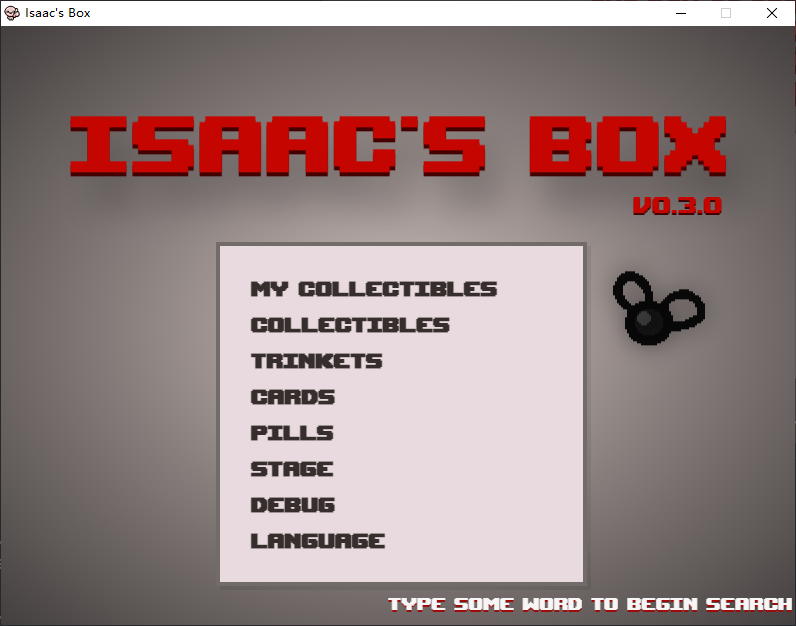
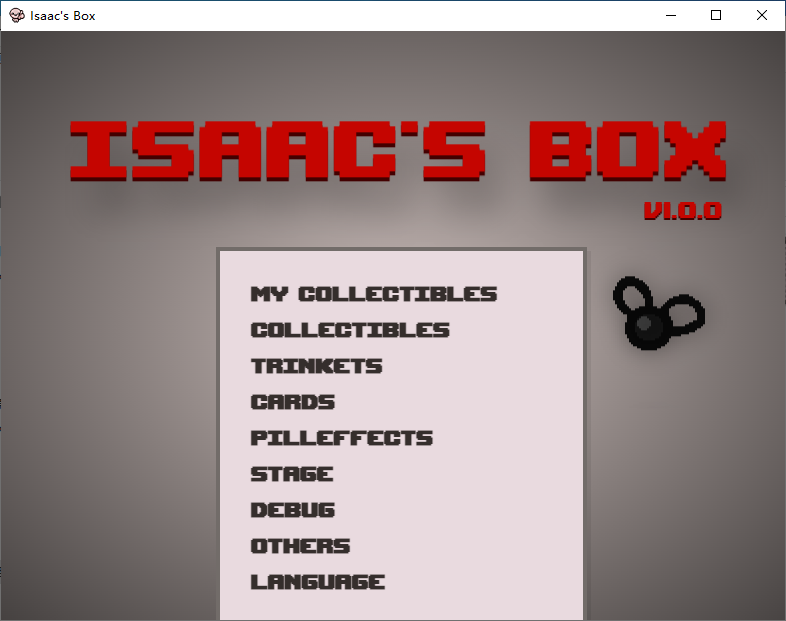
更新文档至1.0.0

diff --git a/README.md b/README.md
@@ -7,8 +7,19 @@
 2. 以前安装过相关Mod(IsaacBox与IsaacSocket)的请您手动删除这两个Mod。
 3. 解压缩文件夹，打开isaac-box.exe。
 4. 启动游戏,如果未安装所需Mod，则会自动安装，安装完毕后会要求您重新手动启动游戏。（仅会在第一次启动时安装）
-6. 新游戏/继续游戏后 看到屏幕顶部的IsaacBox + 版本 即可开始正常使用。
+6. 新游戏/继续游戏后 控制台输出IsaacBox即可正常使用。
 
+## 遇到问题
++ 请检查是否曾经安装过IsaacSocket，同一时间只能开启一个IsaacSocket MOD，请手动删除或者在MOD菜单中禁用
+
++ 检查是否被杀毒软件拦截或者限制访问了
++ 如果不能为您自动安装mod，请手动复制dependencies下的两个mod至游戏MOD文件夹。
++ 是否不能主动打开IsaacSocket.exe 可能需要安装.net环境
++ 如果不能为您自动启动IsaacSocket.exe，请在每次游戏前手动运行dependencies/IsaacSocketUtility下的IsaacSocket.exe
++ 参考https://github.com/LanbingIce/IsaacSocket-Mod 文档
++ 或者提issue
+
+## 功能图
 ![./doc/main.png](./doc/main.png "主画面")
 ![./doc/main.png](./doc/m_en.png "英文版主画面")
 ![./doc/c.png](./doc/c.png "道具")
@@ -32,18 +43,13 @@
 + 八国语言支持(简中,英,德,法,俄,日,韩,西班牙)
 
 
-## 遇到问题
-+ 参考https://github.com/LanbingIce/IsaacSocket-Mod 文档
-+ 请检查是否曾经安装过IsaacSocket，同一时间只能开启一个IsaacSocket MOD
-+ 或者提issue
-
 ## 项目使用(普通用户无需关注,开发者需关注)
 + 首先安装相关依赖(推荐npm) 命令为:npm install
 + npm run dev:网页开发调试 调试界面和基础功能用这个
 + npm run build:生成静态网页
 + npm run start:生成静态网页并运行electron 模拟真实使用环境 调试WebSocket用这个
 + npm run make:打包生成用户可以一键运行的安装包
-## 待开发功能
+## 未完成功能
 + 目前仅支持中英双语的全局搜索,并且拼音缩写搜索目前只支持卡牌和符文与胶囊
 
 ## 特别感谢
